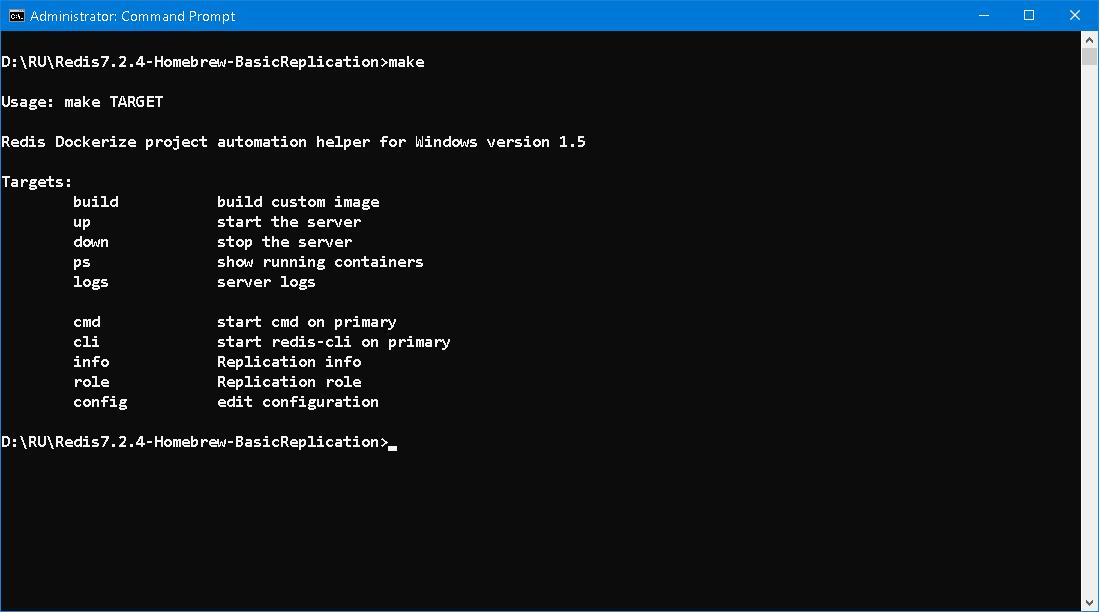
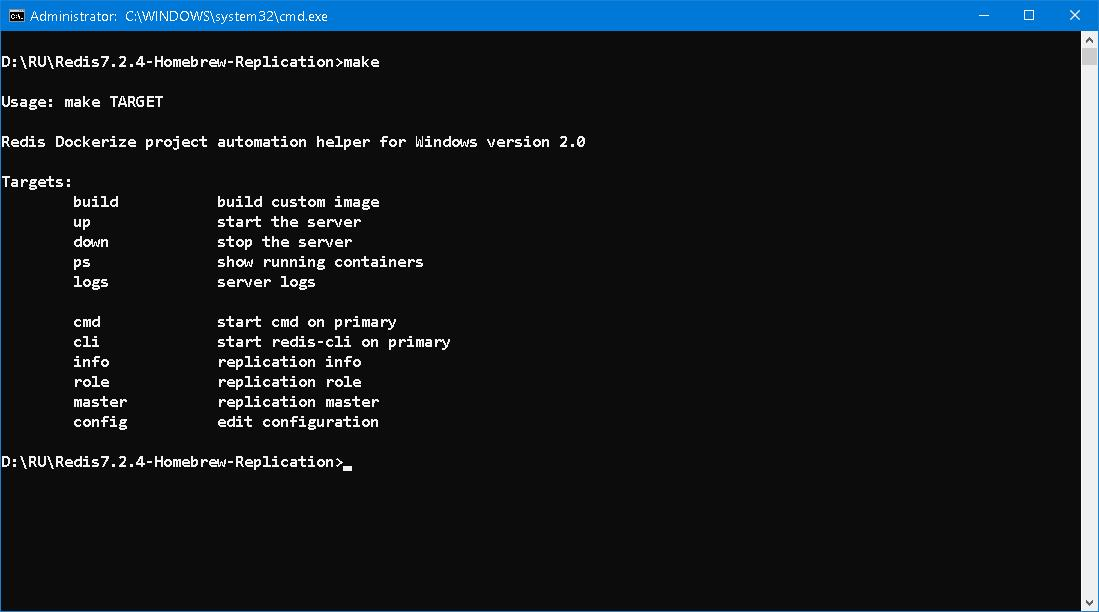
write more

Changed region(s): [[0.0, 0.652, 0.3712, 0.7761], [0.0928, 0.0, 0.3094, 0.0621], [0.2166, 0.0931, 0.4022, 0.1242]]

diff --git a/README.md b/README.md
@@ -1,4 +1,4 @@
-### Redis7.2.4-Homebrew-BasicReplication
+### Redis7.2.4-Homebrew-Replication
 
 Rename `dotenv` to `.env` and set parameters accordingly. 
 
